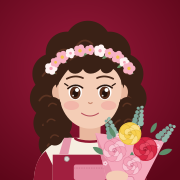
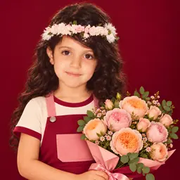
آیکن جدید ژوفل: عکس با دستهگل رز ژولیت

diff --git a/index.html b/index.html
@@ -12,8 +12,8 @@
 <meta name="apple-mobile-web-app-status-bar-style" content="default">
 <meta name="apple-mobile-web-app-title" content="ژوفل">
 <link rel="manifest" href="manifest.webmanifest">
-<link rel="apple-touch-icon" href="icons/apple-touch-icon.png?v=3">
-<link rel="icon" type="image/png" href="icons/icon-192.png?v=3">
+<link rel="apple-touch-icon" href="icons/apple-touch-icon.png?v=4">
+<link rel="icon" type="image/png" href="icons/icon-192.png?v=4">
 <link rel="preload" href="fonts/Vazirmatn.woff2" as="font" type="font/woff2" crossorigin>
 <link rel="stylesheet" href="styles.css">
 </head>

diff --git a/sw.js b/sw.js
@@ -1,5 +1,5 @@
 // نسخه را با هر تغییر در فایلها یکی بالا ببر تا آیفون نسخهی تازه را بگیرد
-const CACHE = 'jufel-v3';
+const CACHE = 'jufel-v4';
 const SHELL = ['./', 'index.html', 'styles.css', 'app.js', 'flowers.js', 'manifest.webmanifest',
   'fonts/Vazirmatn.woff2', 'icons/apple-touch-icon.png', 'icons/icon-192.png'];
 
